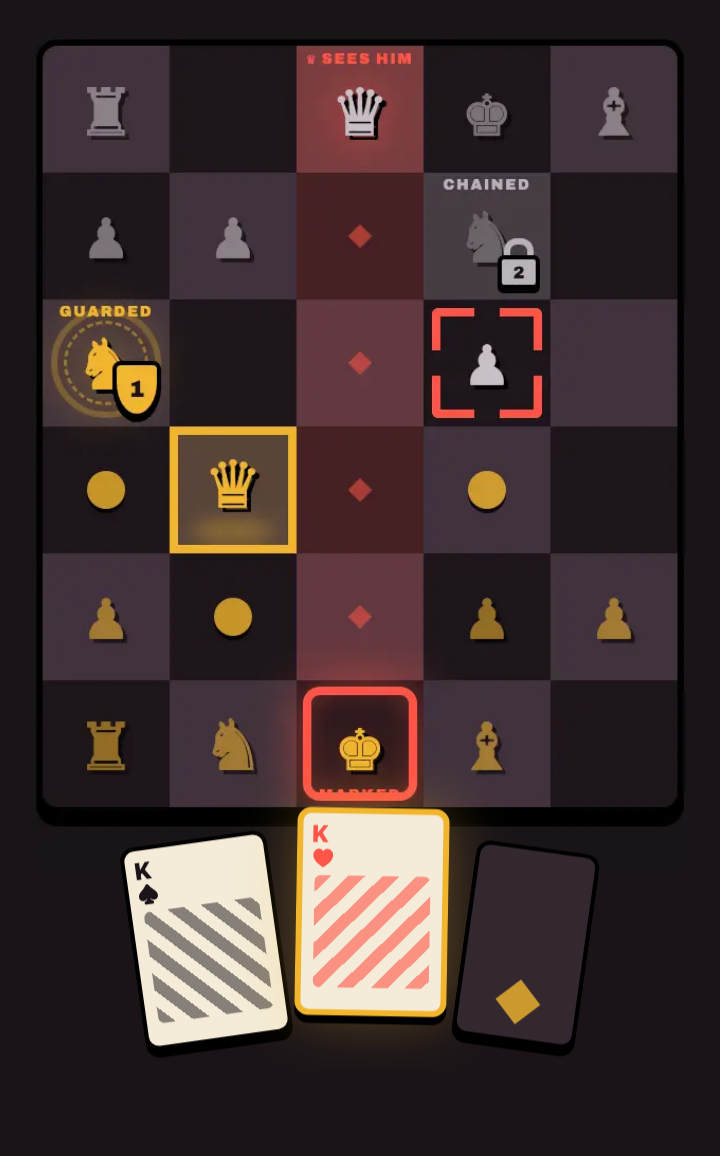
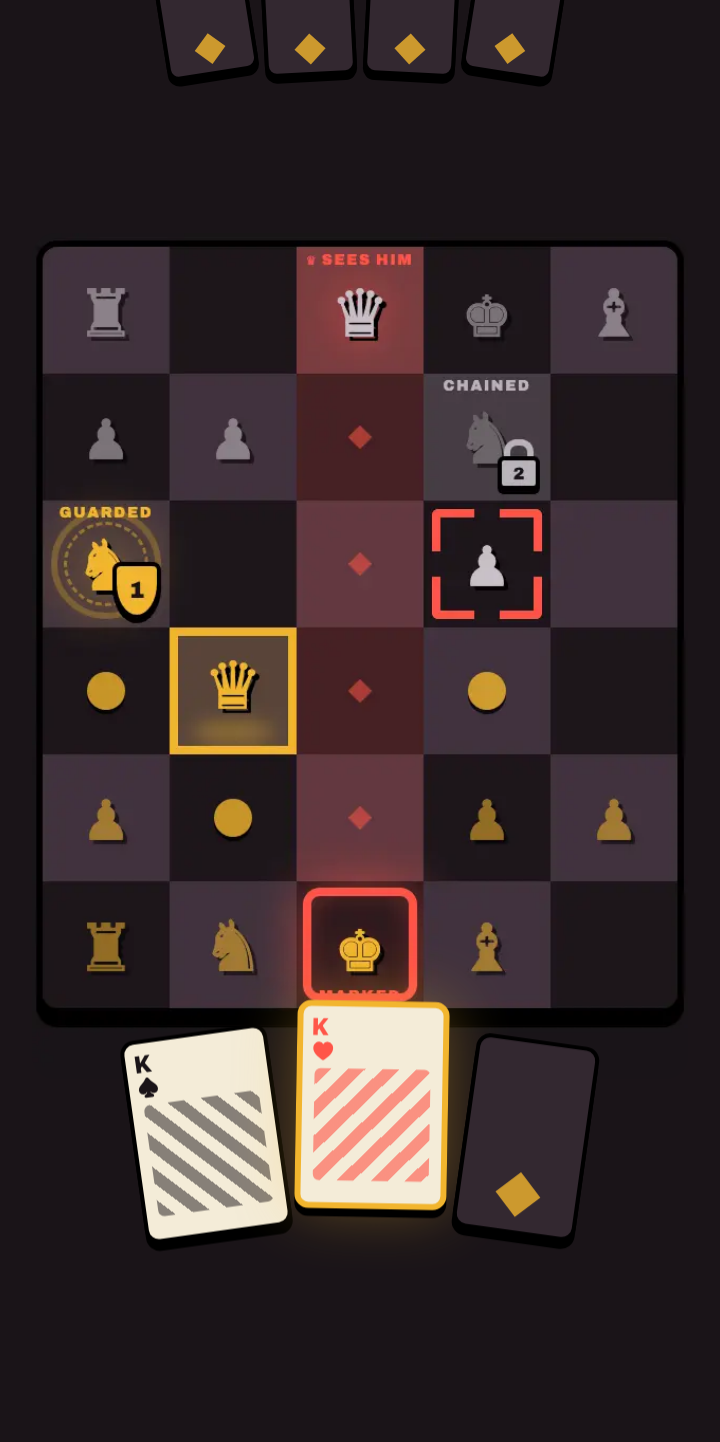
Retell King's Bluff as the story, and fix the ladder and card art
The page led with engine architecture, simulation plumbing, and the spec
process. Reframed around what actually happened: running the fantasy
league, needing a draft order, and the shower idea that followed. The
Monte Carlo work stays but as a thread back to the industrial engineering
degrees, and the approachability work now credits the real source, years
of teaching tabletop games to the kids. Cut 1,394 words to 1,164 and
dropped the spec-authority, open-questions, engine, analytics, and
platform sections.

Two art fixes. The card image was far shorter than its neighbours, which
are true phone screenshots, leaving the card bottom empty; the hero frame
now carries the opponent's face-down hand across the top edge and sits at
1:2, so the extra room reads as table rather than padding.

The ladder image was also silently wrong: `sips --cropOffset 0 0` is
ignored and centre-crops instead, so the published art was missing its
title and first four rungs while keeping an internal spec footnote.
Regenerated by rendering to an exact height instead of cropping.

diff --git a/components/heroes/KingsBluffHero.tsx b/components/heroes/KingsBluffHero.tsx
@@ -27,6 +27,8 @@ const css = `
 .kbh-card--selected { border: 3px solid var(--kbh-gold); box-shadow: 0 4px 0 #000, 0 0 30px rgba(242, 181, 46, 0.35); }
 .kbh-card--back { background: var(--kbh-back); display: flex; align-items: flex-end; justify-content: center; padding-bottom: 10px; box-sizing: border-box; height: 98px; }
 .kbh-diamond { width: 16px; height: 16px; transform: rotate(45deg); background: var(--kbh-gold); opacity: 0.8; }
+.kbh-theirs { width: 46px; height: 66px; background: var(--kbh-back); border: 2px solid #000; border-radius: 6px; box-shadow: 0 3px 0 #000; display: flex; align-items: flex-end; justify-content: center; padding-bottom: 6px; box-sizing: border-box; }
+.kbh-diamond--sm { width: 11px; height: 11px; transform: rotate(45deg); background: var(--kbh-gold); opacity: 0.8; }
 @media (prefers-reduced-motion: no-preference) {
   @keyframes kbhFloat { 0%, 100% { transform: translateY(0); } 50% { transform: translateY(-7px); } }
   .kbh-float { animation: kbhFloat 3.4s ease-in-out infinite; }
@@ -35,47 +37,62 @@ const css = `
 
 export default function KingsBluffHero() {
   return (
-    <div className="kbh-stage relative w-full max-w-[360px] mx-auto md:ml-auto md:mr-0 overflow-hidden rounded-[22px] border border-rule bg-[#1a1418] pt-4 px-4 pb-24">
+    <div className="kbh-stage relative w-full max-w-[360px] aspect-[1/2] mx-auto md:ml-auto md:mr-0 flex items-center overflow-hidden rounded-[22px] border border-rule bg-[#1a1418] px-4">
       <style dangerouslySetInnerHTML={{ __html: css }} />
 
-      <Image
-        src="/images/kings-bluff/board-states.png"
-        alt="A 5 by 6 King's Bluff board showing the game's state languages at once: a marked king in red brackets, a chained knight counting down its frozen turns, a guarded knight behind a gold shield, and the selected queen lit in a gold frame."
-        width={620}
-        height={800}
-        priority
-        className="block w-full h-auto rounded-[12px]"
-      />
-
-      {/* The hand, held over the near edge of the table. */}
+      {/* Their hand, hanging face-down from the top edge. The count is a
+          physical fact you can see, not a stat, so it stays in frame. */}
       <div
         aria-hidden="true"
-        className="absolute left-0 right-0 bottom-3 flex justify-center items-end gap-2"
+        className="absolute left-0 right-0 -top-7 flex justify-center gap-1.5"
       >
-        <div className="kbh-float" style={{ animationDelay: "0s" }}>
-          <div className="kbh-card" style={{ transform: "rotate(-8deg)" }}>
-            <div className="kbh-corner">
-              K<br />♠
-            </div>
-            <div className="kbh-art kbh-art--spade" />
+        {[-9, -3, 3, 9].map((deg) => (
+          <div key={deg} className="kbh-theirs" style={{ transform: `rotate(${deg}deg)` }}>
+            <i className="kbh-diamond--sm" />
           </div>
-        </div>
+        ))}
+      </div>
 
+      {/* Board plus the hand held over its near edge. Grouped and centred
+          so the table breathes above and below, the way the portrait phone
+          layout actually sits. */}
+      <div className="relative w-full -translate-y-8">
+        <Image
+          src="/images/kings-bluff/board-states.png"
+          alt="A 5 by 6 King's Bluff board showing the game's state languages at once: a marked king in red brackets, a chained knight counting down its frozen turns, a guarded knight behind a gold shield, and the selected queen lit in a gold frame."
+          width={620}
+          height={800}
+          priority
+          className="block w-full h-auto rounded-[12px]"
+        />
+
+        {/* Your hand, held over the near edge of the board. */}
         <div
-          className="kbh-float mb-2"
-          style={{ animationDelay: "-1.1s" }}
+          aria-hidden="true"
+          className="absolute left-0 right-0 -bottom-20 flex justify-center items-end gap-2"
         >
-          <div className="kbh-card kbh-card--selected" style={{ transform: "rotate(1deg)" }}>
-            <div className="kbh-corner kbh-corner--red">
-              K<br />♥
+          <div className="kbh-float" style={{ animationDelay: "0s" }}>
+            <div className="kbh-card" style={{ transform: "rotate(-8deg)" }}>
+              <div className="kbh-corner">
+                K<br />♠
+              </div>
+              <div className="kbh-art kbh-art--spade" />
             </div>
-            <div className="kbh-art kbh-art--heart" />
           </div>
-        </div>
 
-        <div className="kbh-float" style={{ animationDelay: "-2.2s" }}>
-          <div className="kbh-card kbh-card--back" style={{ transform: "rotate(8deg)" }}>
-            <i className="kbh-diamond" />
+          <div className="kbh-float mb-2" style={{ animationDelay: "-1.1s" }}>
+            <div className="kbh-card kbh-card--selected" style={{ transform: "rotate(1deg)" }}>
+              <div className="kbh-corner kbh-corner--red">
+                K<br />♥
+              </div>
+              <div className="kbh-art kbh-art--heart" />
+            </div>
+          </div>
+
+          <div className="kbh-float" style={{ animationDelay: "-2.2s" }}>
+            <div className="kbh-card kbh-card--back" style={{ transform: "rotate(8deg)" }}>
+              <i className="kbh-diamond" />
+            </div>
           </div>
         </div>
       </div>
